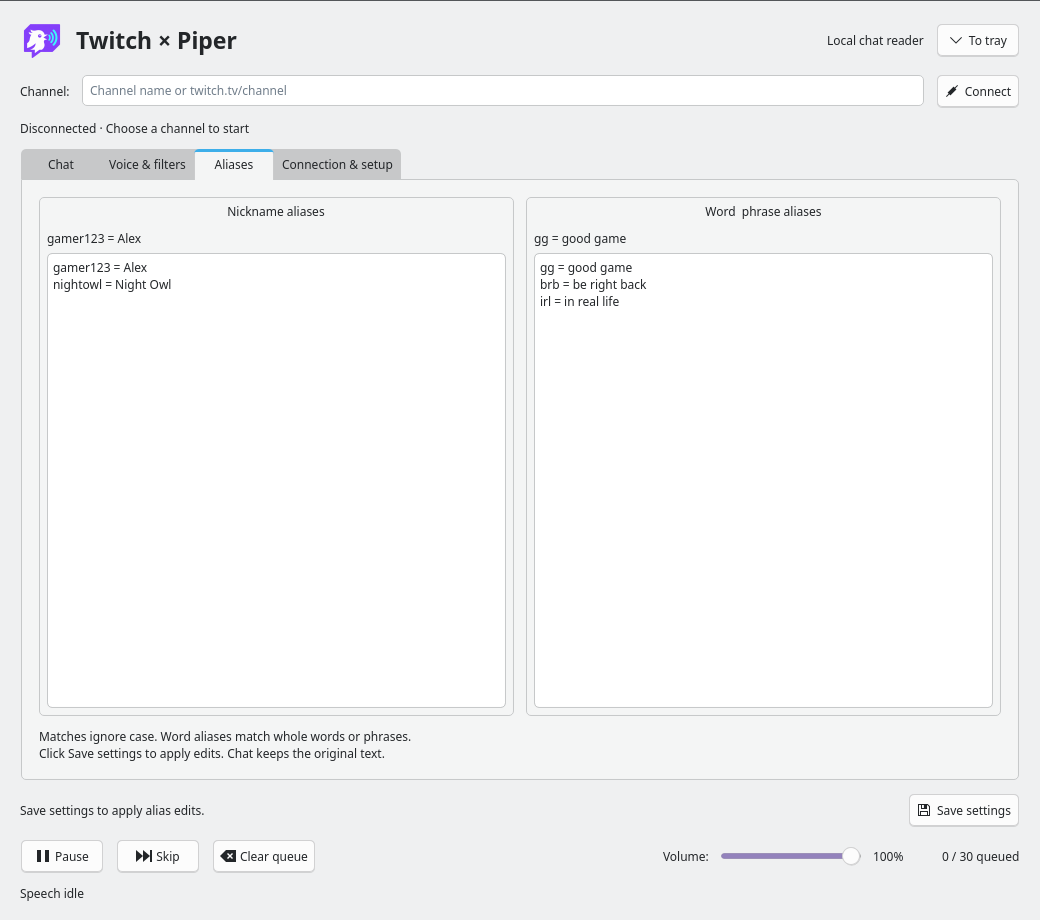
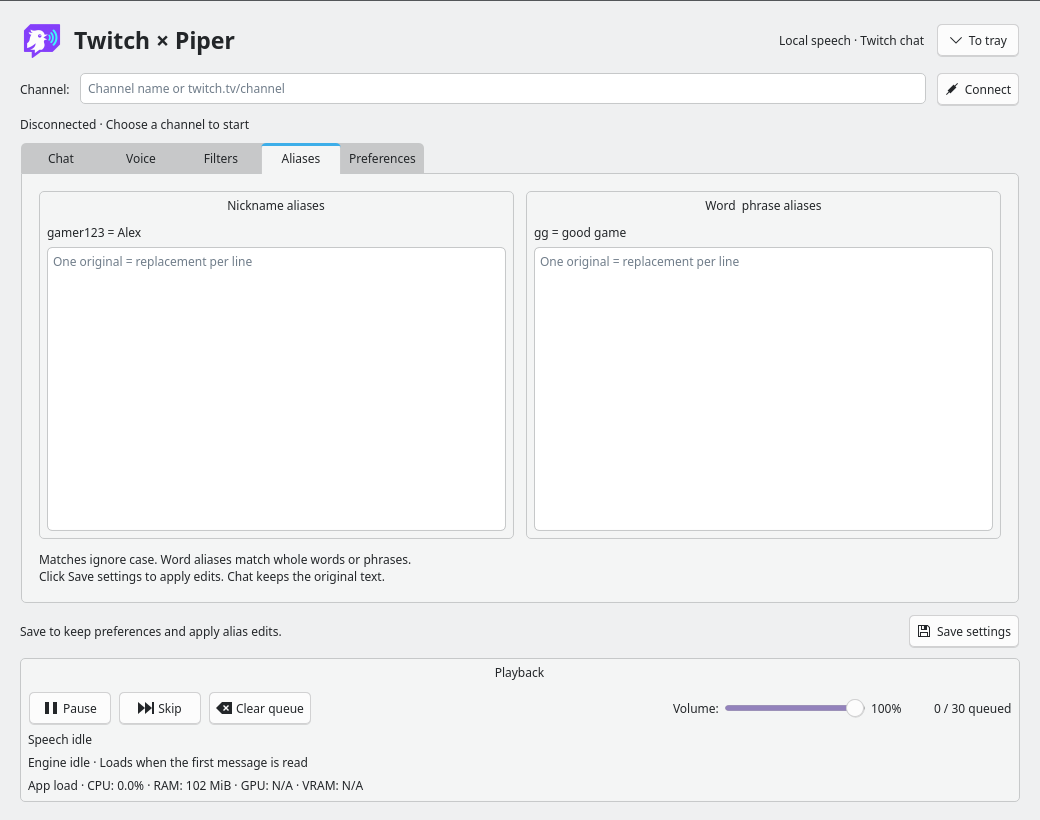
Reorganize UI tabs and settings for clarity
Splits the "Voice & filters" tab into dedicated "Voice" and "Filters" tabs. Renames "Connection & setup" to "Preferences" and moves settings to more intuitive locations.

This redesign improves the organization and discoverability of various application settings, making the interface more intuitive for users. Includes updated screenshots and README documentation.

diff --git a/qt_app.py b/qt_app.py
@@ -13,7 +13,7 @@ import time
 
 from PySide6.QtCore import QEvent, QTimer, Qt
 from PySide6.QtGui import QColor, QFont, QIcon, QPalette
-from PySide6.QtWidgets import (QApplication, QCheckBox, QComboBox, QDoubleSpinBox,
+from PySide6.QtWidgets import (QApplication, QBoxLayout, QCheckBox, QComboBox, QDoubleSpinBox,
     QFileDialog, QFormLayout, QGroupBox, QHBoxLayout, QLabel, QLineEdit, QMainWindow, QMenu,
     QMessageBox, QPlainTextEdit, QProgressBar, QPushButton, QScrollArea, QSlider, QSpinBox, QStyleFactory,
     QSystemTrayIcon, QTabWidget, QTextBrowser, QVBoxLayout, QWidget)
@@ -35,7 +35,7 @@ class Window(QMainWindow):
         self.settings_path = Path(settings_path) if settings_path else BASE / 'settings.json'
         self.setWindowTitle('Twitch × Piper')
         self.setWindowIcon(QIcon(str(BASE / 'assets' / 'twitch-piper.png')))
-        self.resize(980, 790)
+        self.resize(1040, 820)
         self.setMinimumSize(760, 650)
         self.events = queue.Queue(maxsize=2000)
         self.chat = None
@@ -44,6 +44,7 @@ class Window(QMainWindow):
         self.speaker = Speaker(self.emit)
         self.speaking = ''
         self.inputs = {}
+        self.responsive_rows = []
         try:
             saved = json.loads(self.settings_path.read_text())
         except (OSError, ValueError):
@@ -69,7 +70,7 @@ class Window(QMainWindow):
         self.setCentralWidget(outer)
         layout = QVBoxLayout(outer)
         layout.setContentsMargins(20, 18, 20, 18)
-        layout.setSpacing(12)
+        layout.setSpacing(10)
         header = QHBoxLayout()
         title = QLabel('Twitch × Piper')
         font = QFont(title.font())
@@ -81,7 +82,7 @@ class Window(QMainWindow):
         header.addWidget(logo)
         header.addWidget(title)
         header.addStretch()
-        header.addWidget(QLabel('Local chat reader'))
+        header.addWidget(QLabel('Local speech · Twitch chat'))
         self.tray_button = self.button('To tray', self.hide_to_tray, 'window-minimize')
         self.tray_button.setToolTip('Keep reading chat in the background; restore from the tray icon.')
         header.addWidget(self.tray_button)
@@ -105,10 +106,14 @@ class Window(QMainWindow):
         self.build_aliases()
         self.build_setup()
         save_row = QHBoxLayout()
-        self.saved_status = QLabel('Save settings to apply alias edits.')
+        self.saved_status = QLabel('Save to keep preferences and apply alias edits.')
         save_row.addWidget(self.saved_status, 1)
         save_row.addWidget(self.button('Save settings', self.apply_settings, 'document-save'))
         layout.addLayout(save_row)
+        playback = QGroupBox('Playback')
+        playback_layout = QVBoxLayout(playback)
+        playback_layout.setSpacing(6)
+        layout.addWidget(playback)
         controls = QHBoxLayout()
         self.pause_button = self.button('Pause', self.pause, 'media-playback-pause')
         controls.addWidget(self.pause_button)
@@ -134,10 +139,10 @@ class Window(QMainWindow):
         controls.addSpacing(12)
         self.queue_status = QLabel('0 / 30 queued')
         controls.addWidget(self.queue_status)
-        layout.addLayout(controls)
+        playback_layout.addLayout(controls)
         self.now = QLabel('Speech idle')
         self.now.setWordWrap(True)
-        layout.addWidget(self.now)
+        playback_layout.addWidget(self.now)
         self.engine_message = 'Engine idle · Loads when the first message is read'
         self.engine_started = None
         self.engine_status = QLabel(self.engine_message)
@@ -151,18 +156,18 @@ class Window(QMainWindow):
         engine_row = QHBoxLayout()
         engine_row.addWidget(self.engine_status, 1)
         engine_row.addWidget(self.engine_progress)
-        layout.addLayout(engine_row)
+        playback_layout.addLayout(engine_row)
         self.audio_identity = AudioIdentity()
         self.audio_identity_label = QLabel(self.audio_identity.status())
         self.audio_identity_label.setWordWrap(True)
-        layout.addWidget(self.audio_identity_label)
+        self.diagnostics_layout.addWidget(self.audio_identity_label)
         self.resources = ResourceMonitor()
         self.load_label = QLabel(self.resources.latest)
         self.load_label.setWordWrap(True)
         self.load_label.setToolTip('App and child processes, including the speech worker. CPU: 100% = one logical core. '
             'RAM: summed resident memory (shared pages may be counted twice). GPU: NVIDIA per-process SM utilization; '
             'VRAM: GPU memory. N/A means unavailable or unsupported. Samples update about every 1–4 seconds.')
-        layout.addWidget(self.load_label)
+        playback_layout.addWidget(self.load_label)
         self.apply_appearance(self.values['appearance'])
         self.timer = QTimer(self)
         self.timer.timeout.connect(self.poll)
@@ -172,6 +177,13 @@ class Window(QMainWindow):
         self.startup_timer.setSingleShot(True)
         self.startup_timer.timeout.connect(self.startup_connect)
         self.startup_timer.start(0)
+
+    def resizeEvent(self, event):
+        super().resizeEvent(event)
+        direction = (QBoxLayout.Direction.TopToBottom if self.width() < 900
+                     else QBoxLayout.Direction.LeftToRight)
+        for row in getattr(self, 'responsive_rows', []):
+            row.setDirection(direction)
 
     def change_volume(self, volume):
         self.speaker.set_volume(volume)
@@ -225,9 +237,9 @@ class Window(QMainWindow):
         self.log = QTextBrowser()
         self.log.setOpenLinks(False)
         self.log.document().setMaximumBlockCount(400)
-        self.append('Messages appear here after you connect. Test your voice below.')
+        self.append('Messages appear here after you connect. Preview your voice in the Voice tab.')
         layout.addWidget(self.log, 1)
-        test = QGroupBox('Try a message')
+        test = self.test_group = QGroupBox('Preview a message')
         row = QHBoxLayout(test)
         self.sample_name = QLineEdit('Piper')
         self.sample_name.setMaximumWidth(130)
@@ -242,7 +254,7 @@ class Window(QMainWindow):
         layout.addWidget(test)
 
     def build_voice(self):
-        layout = self.page('Voice && filters', scroll=True)
+        layout = self.page('Voice', scroll=True)
         engine_row = QFormLayout()
         self.engine_combo = QComboBox()
         self.engine_combo.addItems(['Piper', 'StyleTTS2 Ukrainian'])
@@ -270,7 +282,6 @@ class Window(QMainWindow):
         self.model_hint.setTextFormat(Qt.TextFormat.PlainText)
         form.addRow(self.model_hint)
         form.addRow('Speaker ID:', self.number('speaker', 0, 999))
-        form.addRow('Maximum characters:', self.number('limit', 20, 1000, 20))
         layout.addWidget(voice)
         self.style_group = QGroupBox('StyleTTS2 · Ukrainian')
         style_form = QFormLayout(self.style_group)
@@ -288,8 +299,7 @@ class Window(QMainWindow):
             else:
                 style_form.addRow(label, combo)
         style_form.addRow(self.check('style_numbers', 'Read numbers as Ukrainian words'))
-        style_form.addRow('Python executable:', self.entry('style_python'))
-        note = QLabel('Install the optional environment from README first. The first test downloads models.\nAuto uses CUDA when available, otherwise CPU. Voices are from patriotyk’s demo.')
+        note = QLabel('31 Ukrainian voices · Auto uses your GPU when available.\nThe first preview may download and load the selected model.')
         note.setWordWrap(True)
         style_form.addRow(note)
         layout.addWidget(self.style_group)
@@ -298,20 +308,26 @@ class Window(QMainWindow):
         layout.addLayout(speed_form)
         self.engine_combo.currentTextChanged.connect(self.select_engine)
         self.select_engine(self.engine_combo.currentText())
+        layout.addWidget(self.test_group)
+        layout.addStretch()
+        layout = self.page('Filters', scroll=True)
+        columns = QHBoxLayout()
+        self.responsive_rows.append(columns)
+        layout.addLayout(columns)
         nicknames = QGroupBox('Nicknames')
         form = QFormLayout(nicknames)
         form.addRow(self.check('names', 'Read nicknames'))
         phrase = self.entry('says')
         phrase.setPlaceholderText('Leave empty to omit “says”')
         form.addRow('After nickname:', phrase)
-        form.addRow(self.check('skip_repeat_names', 'Skip nickname for consecutive messages by the same author'))
+        form.addRow(self.check('skip_repeat_names', 'Skip repeated author names'))
         timeout = self.number('nickname_timeout', 1, 3600, 1, True)
         timeout.setSuffix(' seconds')
         form.addRow('Repeat after idle gap:', timeout)
-        layout.addWidget(nicknames)
+        columns.addWidget(nicknames, 1, Qt.AlignmentFlag.AlignTop)
         filters = QGroupBox('Message filters')
         form = QFormLayout(filters)
-        prefix_toggle = self.check('prefix_only', 'Read only messages starting with this prefix')
+        prefix_toggle = self.check('prefix_only', 'Require a message prefix')
         form.addRow(prefix_toggle)
         prefix_entry = self.entry('message_prefix')
         prefix_entry.setPlaceholderText('%')
@@ -324,7 +340,8 @@ class Window(QMainWindow):
         ignored = self.entry('ignored')
         ignored.setPlaceholderText('Comma-separated usernames')
         form.addRow('Ignore users:', ignored)
-        layout.addWidget(filters)
+        form.addRow('Character limit:', self.number('limit', 20, 1000, 20))
+        columns.addWidget(filters, 1, Qt.AlignmentFlag.AlignTop)
         layout.addStretch()
         self.sync_voice()
 
@@ -359,13 +376,19 @@ class Window(QMainWindow):
         layout.addWidget(note)
 
     def build_setup(self):
-        layout = self.page('Connection && setup', scroll=True)
+        layout = self.page('Preferences', scroll=True)
+        columns = QHBoxLayout()
+        self.responsive_rows.append(columns)
+        left, right = QVBoxLayout(), QVBoxLayout()
+        columns.addLayout(left, 1)
+        columns.addLayout(right, 1)
+        layout.addLayout(columns)
         startup = QGroupBox('Startup and window behavior')
         form = QFormLayout(startup)
-        preload = self.check('preload_engine', 'Load selected engine when the app starts')
+        preload = self.check('preload_engine', 'Preload the selected engine')
         preload.setToolTip('Silently prepares the selected voice. StyleTTS2 stays loaded; Piper warms file caches but starts a new process per message.')
         form.addRow(preload)
-        form.addRow(self.check('auto_connect', 'Auto-connect to the saved channel when the app starts'))
+        form.addRow(self.check('auto_connect', 'Auto-connect to the saved channel'))
         form.addRow(self.check('minimize_to_tray', 'Minimize to the system tray'))
         self.close_action = QComboBox()
         self.close_action.addItems(['Ask every time', 'Close app', 'Minimize to tray'])
@@ -376,7 +399,7 @@ class Window(QMainWindow):
         note = QLabel('Chat and speech continue in the tray. Tray menu → Quit always exits.')
         note.setWordWrap(True)
         form.addRow(note)
-        layout.addWidget(startup)
+        left.addWidget(startup)
         appearance = QGroupBox('Appearance')
         form = QFormLayout(appearance)
         self.appearance = QComboBox()
@@ -385,11 +408,12 @@ class Window(QMainWindow):
         self.appearance.currentTextChanged.connect(self.apply_appearance)
         self.inputs['appearance'] = self.appearance
         form.addRow('Style:', self.appearance)
-        layout.addWidget(appearance)
+        left.addWidget(appearance)
         engine = QGroupBox('Local speech engine')
         form = QFormLayout(engine)
         form.addRow('Piper executable:', self.entry('piper'))
-        layout.addWidget(engine)
+        form.addRow('StyleTTS2 Python:', self.entry('style_python'))
+        right.addWidget(engine)
         login = QGroupBox('Optional Twitch login')
         form = QFormLayout(login)
         note = QLabel('Leave both fields empty for anonymous chat. Tokens are never saved.')
@@ -399,7 +423,15 @@ class Window(QMainWindow):
         self.token.setEchoMode(QLineEdit.EchoMode.Password)
         form.addRow('Username:', self.username)
         form.addRow('OAuth token:', self.token)
-        layout.addWidget(login)
+        right.addWidget(login)
+        diagnostics = QGroupBox('OBS audio capture')
+        self.diagnostics_layout = QVBoxLayout(diagnostics)
+        note = QLabel('In OBS, select twitch-piper in Application Audio Capture.\nMatch by app name if needed: Twitch Piper.')
+        note.setWordWrap(True)
+        self.diagnostics_layout.addWidget(note)
+        left.addWidget(diagnostics)
+        left.addStretch()
+        right.addStretch()
         layout.addStretch()
 
     def apply_appearance(self, name):
@@ -464,7 +496,8 @@ class Window(QMainWindow):
         self.fill_voices(group, label)
         if label:
             self.last_voice[group] = label
-        self.model_hint.setText(path)
+        self.model_hint.setText(Path(path).name if path else 'Choose a Piper model to begin.')
+        self.model_hint.setToolTip(path)
 
     def fill_voices(self, group, selected=''):
         labels = sorted((k for k in self.voice_paths if self.voice_groups[k] == group), key=str.casefold)
@@ -483,7 +516,8 @@ class Window(QMainWindow):
         if label not in self.voice_paths:
             return
         self.values['model'] = self.voice_paths[label]
-        self.model_hint.setText(self.values['model'])
+        self.model_hint.setText(Path(self.values['model']).name)
+        self.model_hint.setToolTip(self.values['model'])
         self.inputs['speaker'].setValue(0)
         self.last_voice[self.language_combo.currentText()] = label
 
@@ -522,14 +556,14 @@ class Window(QMainWindow):
         if s['engine'] == 'StyleTTS2 Ukrainian':
             s['style_python'] = shutil.which(os.path.expanduser(s['style_python'])) or ''
             if not s['style_python']:
-                raise ValueError('Install StyleTTS2 using README, then choose its Python executable in Voice & filters.')
+                raise ValueError('Install StyleTTS2 using README, then choose its Python executable in Preferences.')
             if s['style_voice'] not in CATALOG['voices'] or s['style_device'] not in ('Auto', 'CPU', 'CUDA'):
                 raise ValueError('Choose a valid StyleTTS2 voice and device.')
         else:
             s['model'] = str(Path(s['model']).expanduser())
             s['piper'] = shutil.which(os.path.expanduser(s['piper'])) or ''
             if not s['piper']:
-                raise ValueError('Choose an installed Piper executable in Connection & setup.')
+                raise ValueError('Choose an installed Piper executable in Preferences.')
             if not Path(s['model']).is_file() or not Path(s['model'] + '.json').is_file():
                 raise ValueError('Choose a voice with its matching .onnx.json config.')
             config = json.loads(Path(s['model'] + '.json').read_text())
@@ -783,7 +817,7 @@ class Window(QMainWindow):
         dialog.setText('Close the app or keep reading chat in the tray?')
         available = QSystemTrayIcon.isSystemTrayAvailable()
         dialog.setInformativeText(
-            'Minimize to tray keeps chat and speech running. Change this choice later in Connection & setup.'
+            'Minimize to tray keeps chat and speech running. Change this choice later in Preferences.'
             if available else
             'The system tray is unavailable. You can close the app or cancel. Your tray preference will be kept.')
         close_button = dialog.addButton('Close app', QMessageBox.ButtonRole.DestructiveRole)

diff --git a/test_qt_app.py b/test_qt_app.py
@@ -38,7 +38,7 @@ class BreezeTests(unittest.TestCase):
         self.window.appearance.setCurrentText('Breeze Dark')
         dark = self.application.palette().color(QPalette.ColorRole.Window).lightness()
         self.assertGreater(light, dark)
-        self.assertEqual(self.window.tabs.count(), 4)
+        self.assertEqual(self.window.tabs.count(), 5)
 
     def test_settings_aliases_and_secret_exclusion(self):
         self.window.alias_editors['nickname_aliases'].setPlainText('viewer = Alex')

diff --git a/README.md b/README.md
@@ -23,9 +23,13 @@ The app in Breeze Light, using default settings and example aliases.
 <details>
 <summary>Voice selection, filters, aliases, and settings</summary>
 
-**Voices grouped by language, nickname options, and message filters**
+**Voices grouped by language**
 
-![Voice and filters tab](assets/screenshots/voice-filters.png)
+![Piper voice selection](assets/screenshots/voice-filters.png)
+
+**Nickname options and message filters**
+
+![Filters tab](assets/screenshots/filters.png)
 
 **Nickname and word aliases**
 
@@ -181,11 +185,11 @@ uv pip install --python .venv-styletts2/bin/python --reinstall-package torch --r
 
 Run the check in your desktop terminal; restricted sandboxes may hide GPU devices. Quit the app completely (including its tray icon) and reopen it after changing PyTorch packages. Select **CUDA** or **Auto** in the device selector. If GPU availability is false in your desktop terminal too, check `nvidia-smi` before troubleshooting the app.
 
-Launch the app using its usual Python environment. In **Voice & filters**:
+Launch the app using its usual Python environment. In **Voice**:
 
 1. Select **Speech engine → StyleTTS2 Ukrainian**.
 2. Choose a voice and **Auto**, **CPU**, or **CUDA**. Auto selects CUDA only when available to the worker.
-3. Leave **Python executable** pointing to `.venv-styletts2/bin/python`, or enter the absolute path to your own environment’s Python.
+3. Leave **Preferences → StyleTTS2 Python** pointing to `.venv-styletts2/bin/python`, or enter the absolute path to your own environment’s Python under **Preferences → Local speech engine**.
 4. Use **Read test** with Ukrainian text, such as `Привіт! Дякую за повідомлення.`, then save settings.
 
 The first test downloads the speech model, stress-processing resources, and selected voice preset. Allow several minutes and several GB of disk space. By default caches live in `.cache-styletts2/` beside the app; existing `HF_HOME`, `STANZA_RESOURCES_DIR`, `TORCH_HOME`, and `NUMBA_CACHE_DIR` settings are respected. A newly selected voice may need a small additional download. Cached assets support subsequent local use.
@@ -198,13 +202,13 @@ The voice catalog records the demo revision in `styletts2_voices.json`. Dependen
 
 ## First use
 
-1. In **Connection & setup**, check **Piper executable**. For the pip installation, use the absolute path printed by `command -v piper` in the activated environment. If both commands are installed, the app initially prefers `piper-tts`.
-2. In **Voice & filters**, choose a language and voice. Leave **Speaker ID** at `0` unless your model supports other speakers.
-3. On **Chat**, click **Read test** to verify sound.
+1. In **Preferences**, check **Piper executable**. For the pip installation, use the absolute path printed by `command -v piper` in the activated environment. If both commands are installed, the app initially prefers `piper-tts`.
+2. In **Voice**, choose a language and voice. Leave **Speaker ID** at `0` unless your model supports other speakers.
+3. On **Voice**, click **Read test** to verify sound.
 4. Enter a Twitch channel name or URL and click **Connect**.
 5. Click **Save settings** to keep your preferences and apply alias edits.
 
-Anonymous, read-only chat is attempted by default. If Twitch rejects it, supply your Twitch username and a user OAuth token with `chat:read` under **Connection & setup**. Obtain tokens through [Twitch’s authorization flow](https://dev.twitch.tv/docs/authentication/getting-tokens-oauth/); the app does not include a login/token generator. Credentials are not saved, so auto-connect after restarting uses anonymous access.
+Anonymous, read-only chat is attempted by default. If Twitch rejects it, supply your Twitch username and a user OAuth token with `chat:read` under **Preferences**. Obtain tokens through [Twitch’s authorization flow](https://dev.twitch.tv/docs/authentication/getting-tokens-oauth/); the app does not include a login/token generator. Credentials are not saved, so auto-connect after restarting uses anonymous access.
 
 The Linux process names are `twitch-piper` for the interface and `twitch-styletts` for the StyleTTS2 worker. The command line may still show the Python interpreter; installing optional `setproctitle` in each Python environment also updates that title.
 
@@ -216,12 +220,12 @@ Only one app instance runs per Linux user. Launching it again restores the exist
 - **Engine status** shows startup, pronunciation-resource/model/voice loading, speech generation (with part counts), playback, readiness, and errors. Loading displays an animated activity bar and elapsed time; downloads do not expose a reliable percentage. First use may need several minutes. Skip/Pause can cancel synthesis.
 - **App load** shows CPU, RAM, NVIDIA GPU activity, and VRAM for the app and its child processes, including the speech worker. CPU 100% means one logical core; RAM is summed resident memory and may double-count shared pages. GPU metrics use `nvidia-smi` per-process statistics; unsupported or inaccessible metrics display **N/A**. Sampling runs in the background roughly every 1–4 seconds.
 - **Volume** ranges from 0–100%; zero mutes. Changes apply when the next message starts playing, including messages already queued.
-- **Read only messages starting with this prefix** is disabled by default, with `%` as the default prefix. Enable it to accept only messages beginning exactly with your chosen prefix; the prefix is removed before speech. Disable it to remove this restriction. Other enabled message filters still apply.
+- **Require a message prefix** is disabled by default, with `%` as the default prefix. Enable it to accept only messages beginning exactly with your chosen prefix; the prefix is removed before speech. Disable it to remove this restriction. Other enabled message filters still apply.
 - **Remove leading %** removes only that first sign; the remaining message is still read.
 - **After nickname** replaces “says”; leave it blank to omit the phrase.
 - **Skip repeated nicknames** omits the nickname for consecutive messages by the same author. It returns after another author or the configured idle gap, default 15 seconds.
 - **Aliases** use one `original = replacement` per line, such as `gamer123 = Alex` or `gg = good game`. Matches ignore case; word aliases match whole words or phrases. Save to apply edits.
-- **Load selected engine when the app starts** (off by default) silently prepares the saved voice. StyleTTS2 stays loaded for incoming messages; Piper only warms file caches because its CLI reloads per message. Save the preference before restarting. Engine status shows progress.
+- **Preload the selected engine** (off by default) silently prepares the saved voice. StyleTTS2 stays loaded for incoming messages; Piper only warms file caches because its CLI reloads per message. Save the preference before restarting. Engine status shows progress.
 - **Demo** beside either voice selector previews the selected voice without requiring chat or a message prefix. Demos join the speech queue; resume playback if paused.
 - **Auto-connect** connects when you launch the app; it does not start the app at desktop login.
 - **To tray** keeps speech running in the background. Enable **Minimize to the system tray** to give the window’s Minimize button the same behavior.
@@ -256,8 +260,8 @@ The app keeps a persistent audio client connected from startup, and its playback
 | --- | --- |
 | `No module named PySide6` | Activate the environment where PySide6 is installed, or install it using the appropriate instructions above. |
 | No voices appear | Download both `.onnx` and `.onnx.json`, then restart or use **Browse…**. |
-| StyleTTS2 reports a missing module | Install `requirements-styletts2.txt` in the exact Python environment selected under Voice & filters. |
-| Piper cannot be found | Set its absolute executable path in **Connection & setup**; do not enter `python3 -m piper` in that field. |
+| StyleTTS2 reports a missing module | Install `requirements-styletts2.txt` in the exact Python environment selected under Voice. |
+| Piper cannot be found | Set its absolute executable path in **Preferences**; do not enter `python3 -m piper` in that field. |
 | Piper rejects an option | Run `piper --help` or `piper-tts --help`. The app requires `-m`, `-f`, `-s`, and `--length_scale`, with text on stdin. |
 | No sound | Resume playback, raise app/system volume, and inspect the chat log for playback errors. Test system audio with `aplay /path/to/test.wav`. |
 | Qt cannot connect to a display | Run from a terminal inside your graphical desktop session. |
